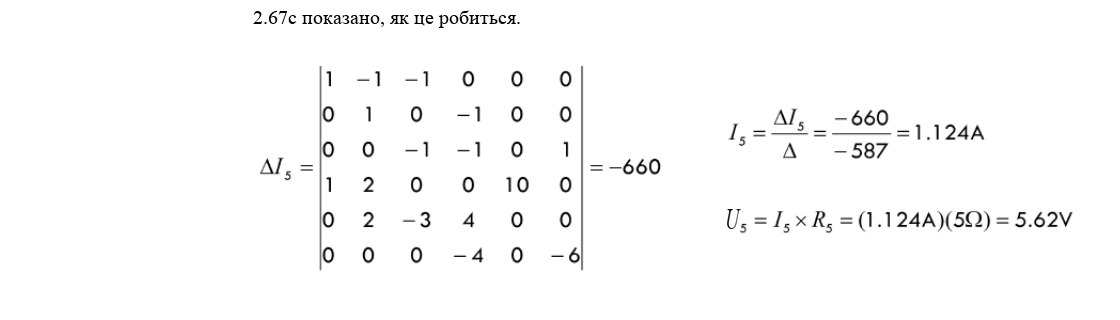
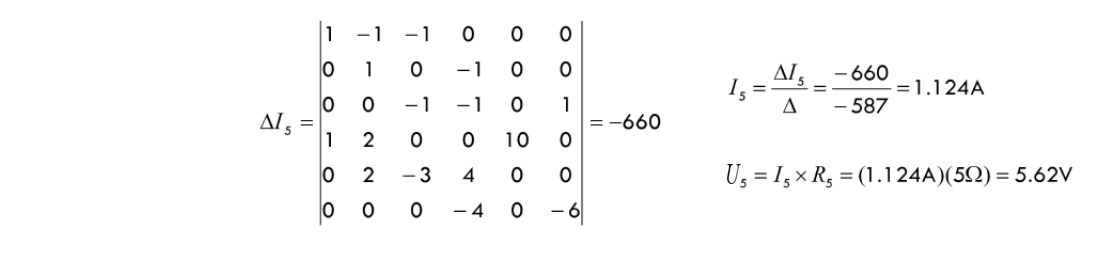
2.17: перевірка перекладу, прибрано зайвий текст з рис. 2.67c, додаткові матеріали (конспект, список формул)

diff --git a/Електроніка/2.17 Закони Кірхгофа.md b/Електроніка/2.17 Закони Кірхгофа.md
@@ -181,27 +181,93 @@ $$
 > [!note] Незначні розбіжності через округлення
 > У значеннях рисунків 2.68–2.69 струми й напруги округлено. Через це суми в окремих вузлах або контурах можуть відрізнятися від нуля приблизно на останню наведену цифру.
 
-## Конспект
+## Додаткові матеріали
 
-### Два закони
+> [!info] Примітка
+> Матеріал нижче не з оригіналу підручника: це додаткові матеріали (конспект, формули, розрахунки, підказки, самоперевірка) для швидкого повторення розділу.
 
-**Закон струмів Кірхгофа — для вузла:**
+### Конспект
 
-$$
-\sum I_{in}=\sum I_{out}
-\qquad\text{або}\qquad
-\sum I=0
-$$
+#### 🔹 Головна ідея
 
-за умови, що вхідні й вихідні струми мають узгоджені знаки.
+Прості прийоми зведення резистивних кіл (2.12) не завжди дають змогу знайти окремі струми й напруги, особливо коли в колі кілька джерел або складна мережа резисторів. Закони Кірхгофа — найзагальніший метод аналізу кіл: вони працюють і для лінійних, і для нелінійних елементів, незалежно від складності кола. Їх два: **закон струмів** (для вузла) і **закон напруг** (для контуру). Записавши достатньо незалежних рівнянь за цими законами, отримуємо систему, кількість рівнянь якої дорівнює кількості невідомих; далі залишається алгебра.
 
-**Закон напруг Кірхгофа — для контуру:**
+#### 🔹 Ключові поняття
 
-$$
-\sum_{\text{контур}}\Delta U=0.
-$$
+1. **Закон напруг Кірхгофа (правило контуру):** алгебраїчна сума напруг уздовж будь-якого замкненого контуру дорівнює нулю, $\sum\Delta U=0$. Це збереження енергії: заряд, що повернувся в початкову точку, має ту саму потенціальну енергію.
+2. **Закон струмів Кірхгофа (правило вузла):** $\sum I_{in}=\sum I_{out}$. Це збереження заряду: заряд не створюється й не зникає.
+3. **Правила знаків під час обходу:** через резистор за напрямком струму — $-IR$, проти струму — $+IR$; через джерело від «−» до «+» — $+U$, від «+» до «−» — $-U$. Напрямок обходу довільний.
+4. **Кількість рівнянь:** для мостової схеми 3 вузлові + 3 контурні рівняння дають 6 рівнянь для 6 струмів. Рівняння мають бути незалежними.
+5. **Способи розв’язання:** підстановка, матриці, визначники (правило Крамера, $I_k=\Delta I_k/\Delta$) або симулятор (MultiSim, LTspice тощо).
 
-Перший закон випливає зі збереження заряду, другий — зі збереження енергії.
+#### 🔹 Зв’язок з попередніми темами
+
+- 2.2 і 2.3: струм і напруга (різниця потенціалів) — основні величини в рівняннях.
+- 2.11–2.12: закон Ома $U=IR$ перетворює падіння напруги на резисторах у вирази через струми; зведення кіл — простіший метод, якого може не вистачити.
+- 2.13: джерела напруги й струму — «підйоми» потенціалу в рівняннях контурів.
+- 2.16: короткі замикання й розриви — граничні випадки, для яких закони Кірхгофа теж справедливі.
+- Далі (2.18): теорема суперпозиції та теорема Тевенена дають способи уникнути великих систем рівнянь.
+
+#### 🔹 Практичне застосування
+
+- Аналіз мостових і інших складних резистивних схем, де немає простих послідовно-паралельних з’єднань.
+- Перевірка результатів симулятора: підставити значення у вузлові й контурні рівняння.
+- Пошук помилок у схемі: якщо сума струмів у вузлі або напруг у контурі не дорівнює нулю, значення чи вимірювання хибні.
+- Основа методів аналізу, що застосовуються в програмах моделювання кіл.
+
+#### 🔹 Як це виглядає в числах
+
+Приклад мостової схеми: $R_1\ldots R_6=1\ldots6\ \Omega$, $U_0=10\ \text{В}$.
+
+- Шість рівнянь (рис. 2.67b) дають $\Delta=-587$.
+- Для $I_5$: $\Delta I_5=-660$, тож $I_5=\dfrac{-660}{-587}=1{,}124\ \text{А}$, $U_5=1{,}124\cdot5=5{,}62\ \text{В}$.
+- Симулятор: $I_1=2{,}027$, $I_2=1{,}175$, $I_3=0{,}852$, $I_4=0{,}051$, $I_5=1{,}124$, $I_6=0{,}903\ \text{А}$.
+- Вузол $a$: $2{,}027\approx1{,}175+0{,}852$. Контур 1: $10-2{,}027-2{,}351-5{,}622\approx0$.
+
+#### 🔹 Як міркувати крок за кроком
+
+Спершу позначте вузли й задайте довільні напрямки всіх невідомих струмів. Потім для кожного незалежного вузла запишіть, що входить, те й виходить. Далі виберіть контури так, щоб кожен новий містив гілку, якої ще не було в попередніх, і запишіть суму змін напруги, замінюючи падіння на резисторах добутком $IR$. Отриману систему розв’яжіть підстановкою, матрицями чи правилом Крамера. Нарешті перевірте відповідь: підставте значення в усі рівняння й переконайтеся, що струми у вузлах і напруги в контурах узгоджуються. Якщо якийсь струм вийшов від’ємним, це лише означає, що початковий напрямок було вгадано хибно, — помилки в цьому немає. Така послідовність однакова для простого кола з двома резисторами і для мостової схеми з шести резисторів; змінюється лише кількість рівнянь. Саме тому закони Кірхгофа вважають фундаментом аналізу кіл: усі подальші методи (суперпозиція, Тевенен, Нортон) із них випливають.
+
+#### 🔹 Що запам’ятати
+
+- Вузол: $\sum I_{in}=\sum I_{out}$ (заряд зберігається). Контур: $\sum\Delta U=0$ (енергія зберігається).
+- Знаки під час обходу треба тримати узгодженими; від’ємний струм лише означає протилежний напрямок.
+- Рівнянь має бути стільки, скільки невідомих, і вони мають бути незалежними.
+- Закони Кірхгофа працюють для будь-яких елементів; але на практиці великі системи розв’язують симулятором, а перевіряють цими законами.
+
+### Список формул
+
+**Формула**: $\sum_{\text{замкнений контур}}\Delta U=U_1+U_2+\dots+U_n=0$ (2.20)
+**Позначення**: $\Delta U$ — зміна напруги (потенціалу) на елементі під час обходу, В; $U_k$ — напруга на $k$-му елементі контуру, В
+**Фізичний смисл**: закон напруг Кірхгофа — збереження енергії: повна зміна потенціалу вздовж замкненого контуру дорівнює нулю.
+
+**Формула**: $\sum I_{in}=\sum I_{out}$ (2.21)
+**Позначення**: $I_{in}$ — струми, що входять у вузол, А; $I_{out}$ — струми, що виходять із вузла, А
+**Фізичний смисл**: закон струмів Кірхгофа — збереження заряду: у вузлі заряд не накопичується.
+
+**Формула**: $U_n=I_nR_n$
+**Позначення**: $U_n$ — напруга на $n$-му резисторі, В; $I_n$ — струм крізь нього, А; $R_n$ — його опір, Ом
+**Фізичний смисл**: закон Ома; зв’язує падіння напруги на резисторі зі струмом і дає змогу виразити рівняння контурів через струми.
+
+**Формула**: $\Delta U_{ab}=-IR$ (обхід від $a$ до $b$ за напрямком струму); $\Delta U_{ba}=+IR$ (обхід проти струму); $\Delta U=\pm U$ для джерела (від «−» до «+» — $+U$)
+**Позначення**: $a,b$ — кінці елемента; $I$ — струм крізь резистор, А; $R$ — опір, Ом; $U$ — ЕРС джерела, В
+**Фізичний смисл**: правила вибору знаків під час обходу контуру (рис. 2.63).
+
+**Формула**: $U_0-I_1R_1-I_2R_2-I_5R_5=0$; $-I_3R_3+I_4R_4+I_2R_2=0$; $-I_6R_6+I_5R_5-I_4R_4=0$ (рис. 2.66)
+**Позначення**: $U_0$ — напруга джерела, В; $I_k$ — струм крізь $R_k$, А; $R_k$ — опір $k$-го резистора, Ом
+**Фізичний смисл**: рівняння закону напруг для трьох контурів мостової схеми.
+
+**Формула**: $I_1=I_2+I_3$; $I_2=I_5+I_4$; $I_6=I_3+I_4$ (рис. 2.66)
+**Позначення**: $I_1\ldots I_6$ — струми гілок, А
+**Фізичний смисл**: рівняння закону струмів для вузлів $a$, $b$, $c$ мостової схеми.
+
+**Формула**: $x_k=\dfrac{\Delta x_k}{\Delta}$, $k=1,\dots,n$ (правило Крамера, рис. 2.67a); $I_5=\dfrac{\Delta I_5}{\Delta}$
+**Позначення**: $\Delta$ — визначник матриці коефіцієнтів; $\Delta x_k$ — той самий визначник, у якому $k$-й стовпець замінено стовпцем вільних членів $b$; $x_k$ — шукана невідома
+**Фізичний смисл**: спосіб розв’язання системи лінійних рівнянь за допомогою визначників; за $\Delta=0$ єдиного розв’язку немає.
+
+**Формула**: $\mathbf A\mathbf x=\mathbf b$ (не з оригіналу; матричний запис системи)
+**Позначення**: $\mathbf A$ — матриця коефіцієнтів; $\mathbf x$ — вектор невідомих струмів; $\mathbf b$ — вектор правих частин (джерел)
+**Фізичний смисл**: компактний запис системи рівнянь Кірхгофа для розв’язання матрицями (другий спосіб з тексту).
 
 ### Правила знаків під час обходу контуру
 
@@ -272,7 +338,7 @@ $$
 10-2{,}027-2{,}351-5{,}622=0.
 $$
 
-## Підказки для вивчення
+### Підказки для вивчення
 
 > [!tip] Вузол — думайте про потоки
 > До вузла не може безперервно накопичуватися заряд: скільки струму входить, стільки має вийти.
@@ -298,7 +364,7 @@ $$
 - змінювати напрямок уже визначеного струму між різними рівняннями;
 - без перевірки довіряти результату симулятора або калькулятора.
 
-## Самоперевірка
+### Самоперевірка
 
 1. Який фізичний закон лежить в основі закону струмів Кірхгофа?
 2. Який фізичний закон лежить в основі закону напруг Кірхгофа?
@@ -315,7 +381,7 @@ $$
 > 5. Рівняння мають бути незалежними; залежні рівняння не додають нової інформації.
 > 6. $1{,}175\ \text{А}+0{,}852\ \text{А}=2{,}027\ \text{А}=I_1$.
 
-## Пов’язані теми
+### Пов’язані теми
 
 - [[2.2 Електричний струм|Електричний струм]]
 - [[2.3 Напруга|Напруга]]
